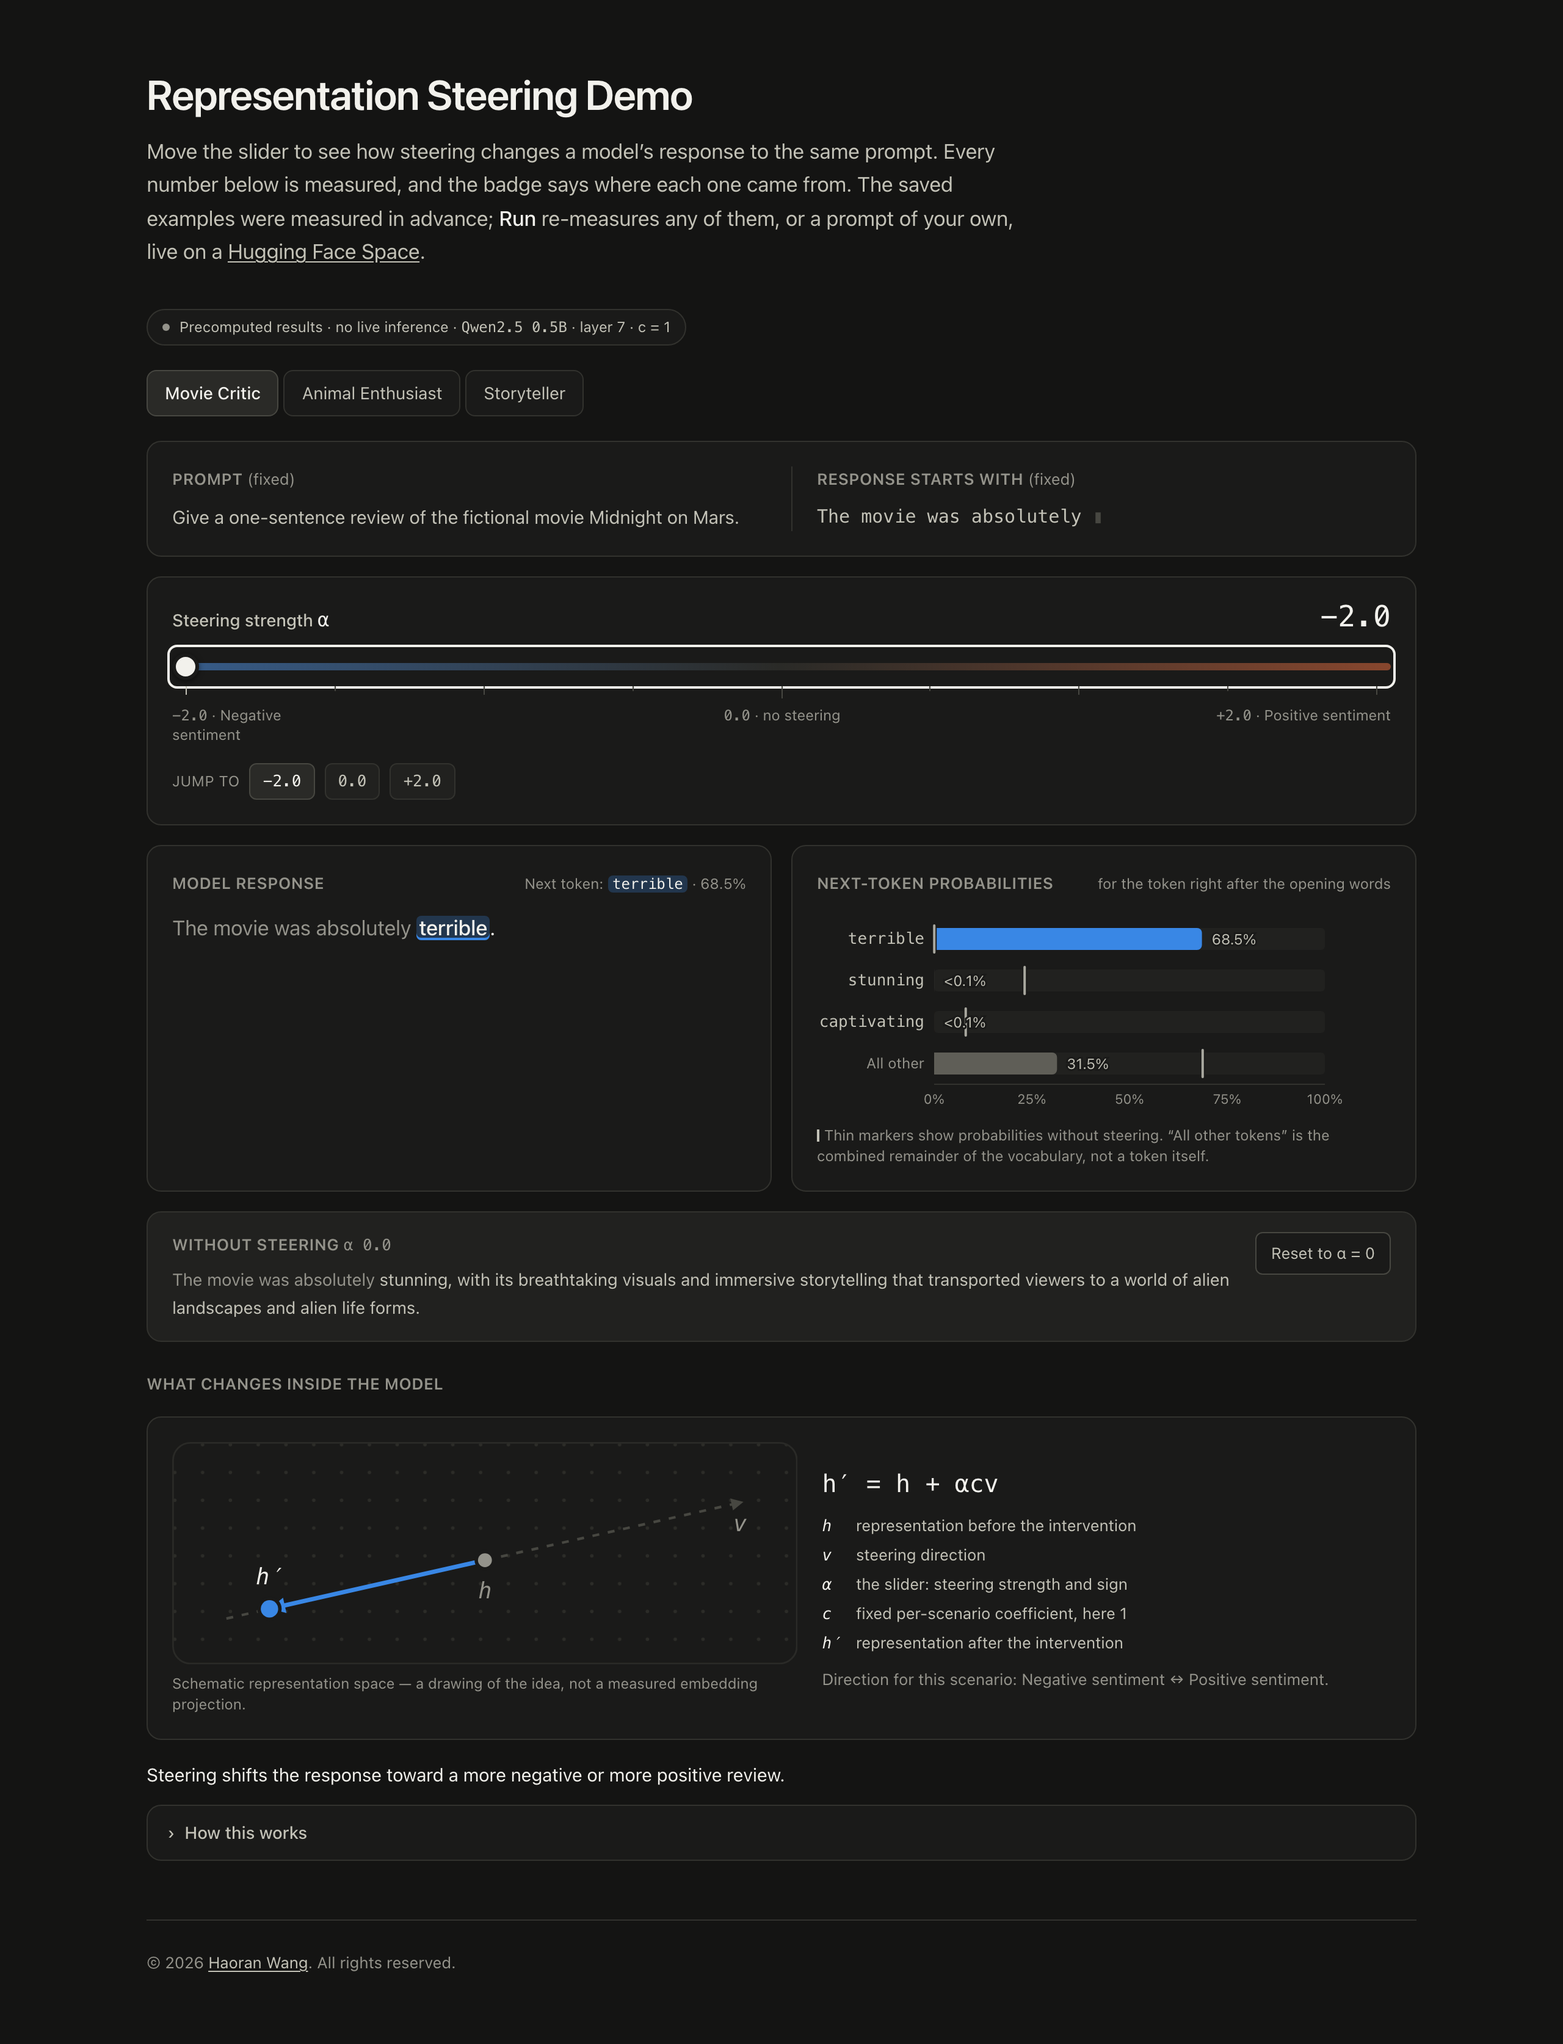
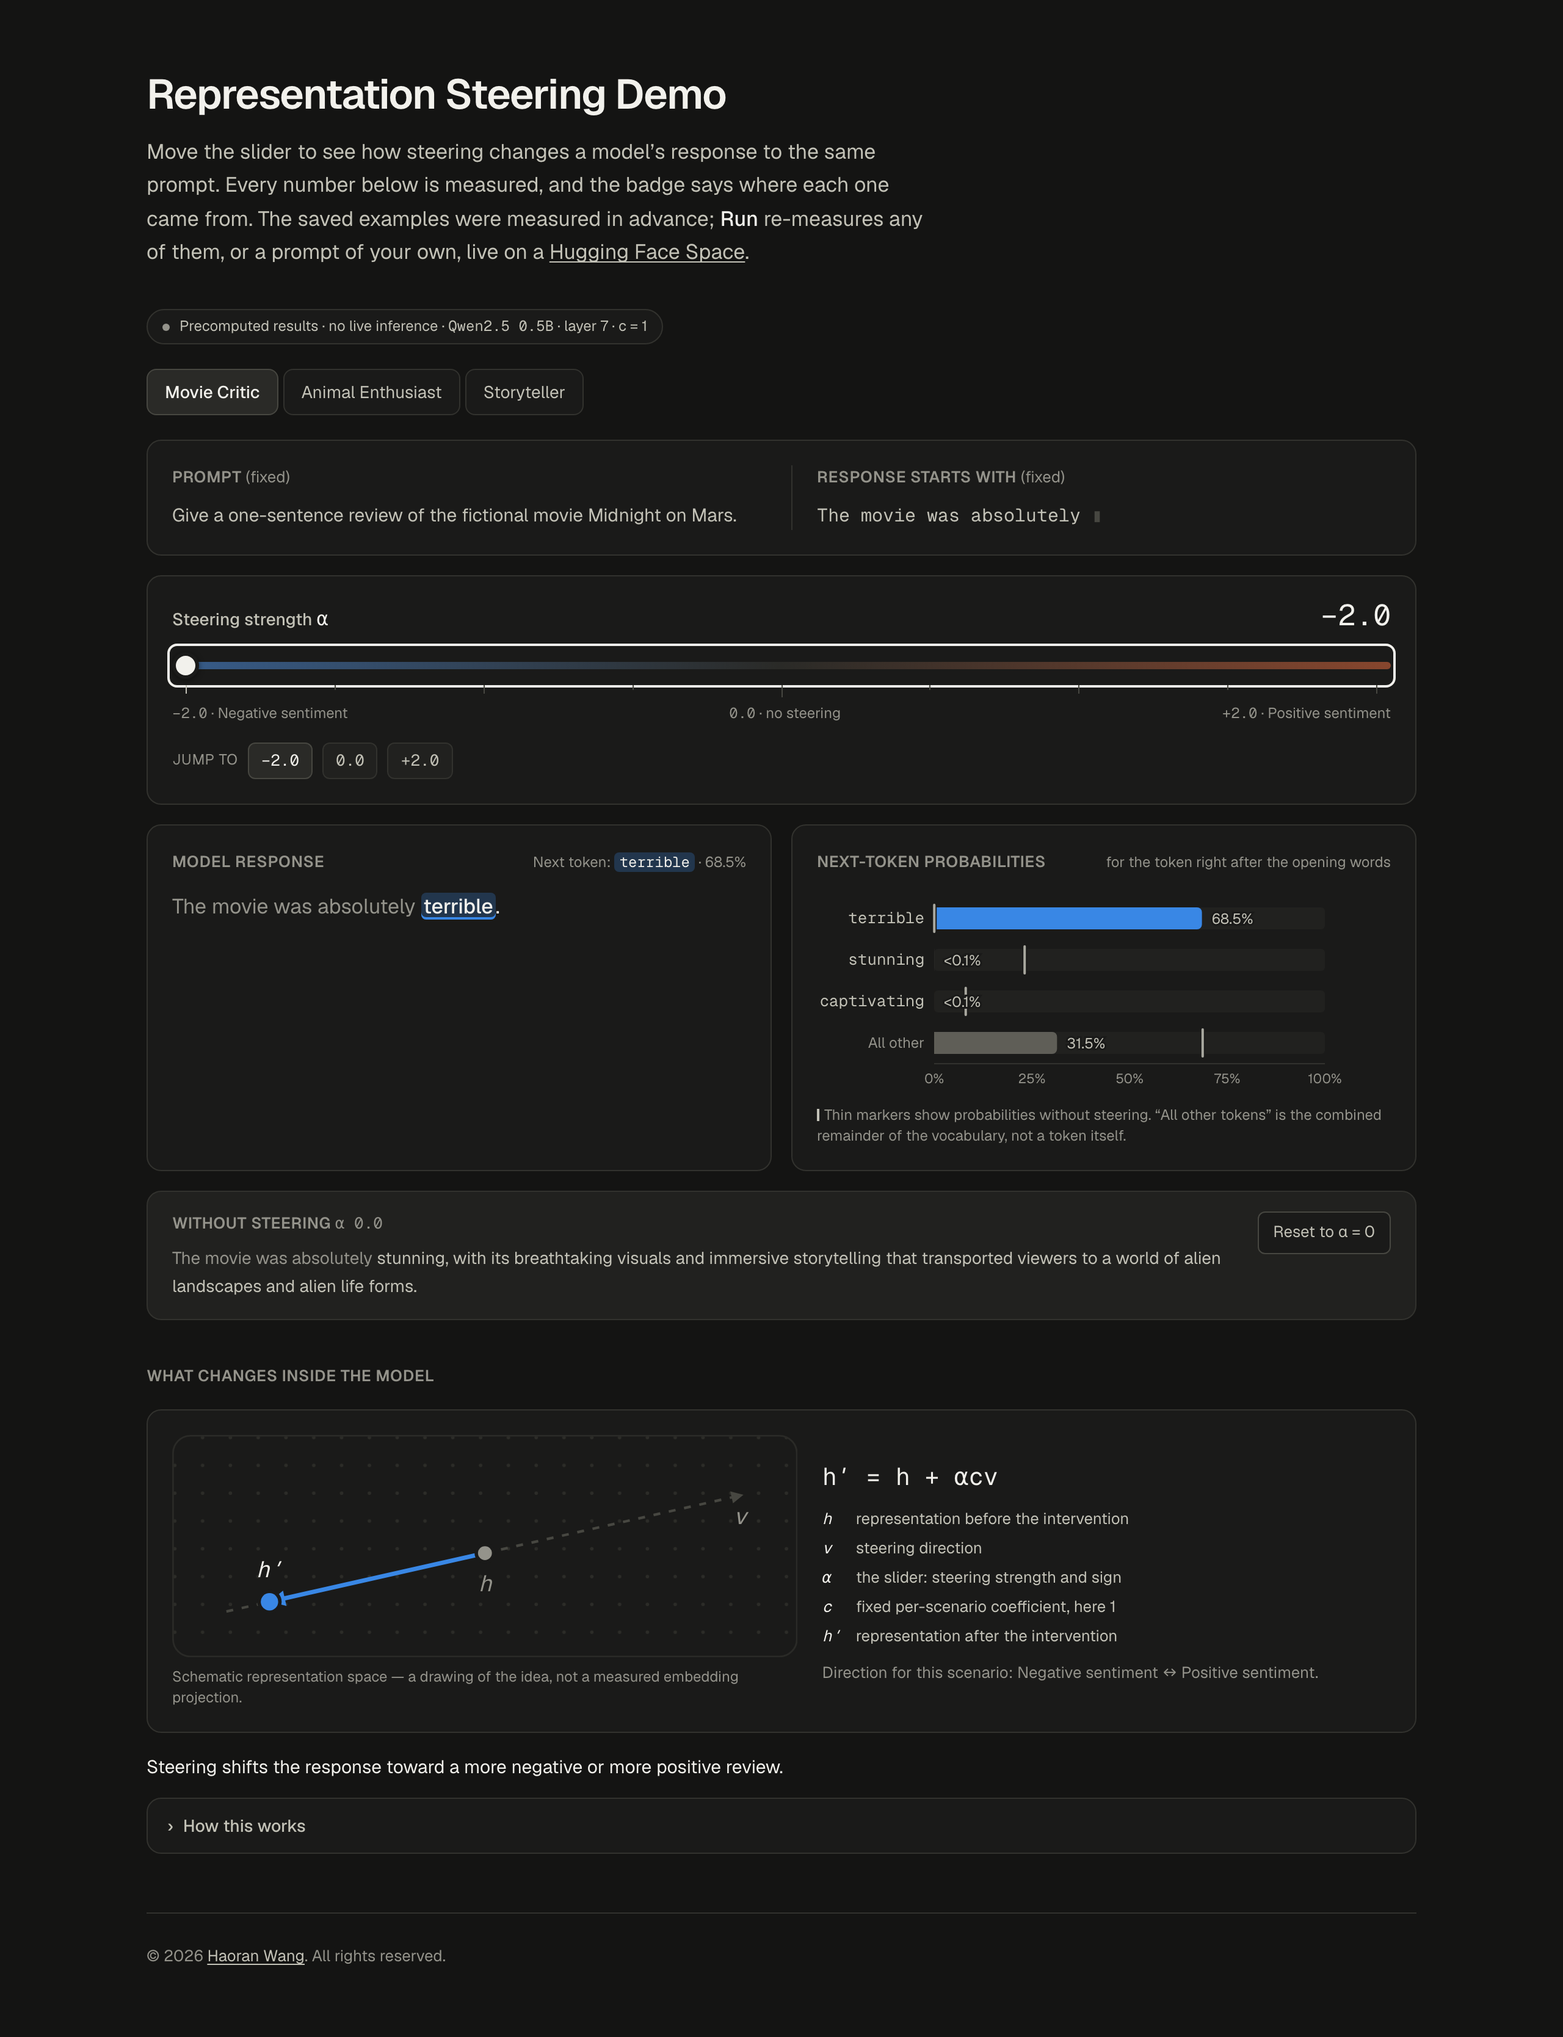
Set the page in Geist, acknowledge every press, and theme the browser's own surfaces
A polish pass on the incumbent design, guided by three craft references
(emil-design-eng, impeccable, redesign-existing-projects). Refinement only: the
layout, palette, copy and measured content are untouched.

Typography. The interface was set in the platform's default sans, which reads as
assembled rather than built. It is now Geist Sans, with Geist Mono for the
tokens, alpha values and percentages the page is about - self-hosted through
@fontsource-variable, so the page still makes no external request and works
offline; a visitor fetches two latin subsets, 52 KB. Headings balance their
line breaks, paragraphs avoid orphans, the lede's measure is ~72 characters
instead of a wide band, and every changing number uses tabular numerals so the
slider never makes digits jitter.

Feedback. No control acknowledged a press. Tabs, the jump-to presets, Run and
Reset now scale to 0.97 on :active over 160ms on a strong ease-out, transform
only; the slider thumb grows under the pointer and while dragged. Pills that
appear in response to something - a stale draft, a failed run, the way back to
the saved example - ease in from 2px below via @starting-style rather than
popping in. All of it collapses under prefers-reduced-motion through the
existing global rule. The bar tween was already the page's one authored moment
and is unchanged.

Browser surfaces. Selection colour, caret, scrollbar and accent now come from
[…]

diff --git a/src/styles/global.css b/src/styles/global.css
@@ -1,4 +1,11 @@
 @import "tailwindcss";
+/*
+ * Self-hosted, so the page keeps making no external requests. Geist (Vercel, SIL OFL 1.1):
+ * a sans with a clear voice for the interface, and a mono that shares its metrics for the
+ * tokens, alpha values and percentages the page is really about.
+ */
+@import "@fontsource-variable/geist";
+@import "@fontsource-variable/geist-mono";
 
 /*
  * Design tokens.
@@ -11,10 +18,13 @@
  * a visible text label plus a row in the accessible table.
  */
 @theme {
-  --font-sans: ui-sans-serif, system-ui, -apple-system, "Segoe UI", Roboto, "Helvetica Neue",
-    Arial, "Noto Sans", sans-serif;
-  --font-mono: ui-monospace, SFMono-Regular, "SF Mono", Menlo, Consolas, "Liberation Mono",
-    monospace;
+  --font-sans: "Geist Variable", ui-sans-serif, system-ui, -apple-system, "Segoe UI", Roboto,
+    "Helvetica Neue", Arial, "Noto Sans", sans-serif;
+  --font-mono: "Geist Mono Variable", ui-monospace, SFMono-Regular, "SF Mono", Menlo, Consolas,
+    "Liberation Mono", monospace;
+
+  /* A stronger ease-out than the CSS keyword: fast start, long settle. Used for every UI motion. */
+  --ease-out-strong: cubic-bezier(0.23, 1, 0.32, 1);
 
   --color-surface-0: #141413;
   --color-surface-1: #1a1a19;
@@ -55,6 +65,33 @@
     outline: 2px solid var(--color-ink);
     outline-offset: 2px;
     border-radius: 4px;
+  }
+
+  /*
+   * The surfaces the browser draws for us still carry the design: selection, caret, scrollbars
+   * and the numerals in changing values all ship with defaults that belong to no palette.
+   */
+  :root {
+    caret-color: var(--color-ink);
+    accent-color: var(--color-ink);
+    scrollbar-color: var(--color-line-strong) transparent;
+  }
+  ::selection {
+    background: color-mix(in oklab, var(--color-ink) 24%, transparent);
+  }
+  h1,
+  h2,
+  h3 {
+    text-wrap: balance;
+  }
+  p {
+    text-wrap: pretty;
+  }
+  /* Values that change under the slider must not jitter as their digits change width. */
+  .font-mono,
+  code,
+  output {
+    font-variant-numeric: tabular-nums;
   }
 }
 
@@ -104,7 +141,10 @@
     border-radius: 999px;
     background: var(--color-ink);
     border: 3px solid var(--color-surface-1);
-    box-shadow: 0 1px 4px rgb(0 0 0 / 0.5);
+    box-shadow: 0 1px 4px rgb(10 10 8 / 0.55);
+    transition:
+      transform 160ms var(--ease-out-strong),
+      box-shadow 160ms var(--ease-out-strong);
   }
 
   .alpha-range::-moz-range-thumb {
@@ -113,7 +153,59 @@
     border-radius: 999px;
     background: var(--color-ink);
     border: 3px solid var(--color-surface-1);
-    box-shadow: 0 1px 4px rgb(0 0 0 / 0.5);
+    box-shadow: 0 1px 4px rgb(10 10 8 / 0.55);
+    transition:
+      transform 160ms var(--ease-out-strong),
+      box-shadow 160ms var(--ease-out-strong);
+  }
+
+  /* The handle grows under the pointer and while dragged, so the grab is acknowledged. */
+  @media (hover: hover) and (pointer: fine) {
+    .alpha-range:hover::-webkit-slider-thumb {
+      transform: scale(1.08);
+    }
+    .alpha-range:hover::-moz-range-thumb {
+      transform: scale(1.08);
+    }
+  }
+  .alpha-range:active::-webkit-slider-thumb {
+    transform: scale(1.14);
+    box-shadow: 0 2px 8px rgb(10 10 8 / 0.6);
+  }
+  .alpha-range:active::-moz-range-thumb {
+    transform: scale(1.14);
+    box-shadow: 0 2px 8px rgb(10 10 8 / 0.6);
+  }
+
+  /*
+   * Press feedback for anything clickable: a 3% scale on :active, transform only, so the
+   * interface visibly hears the press without repainting text. Colour changes keep the plain
+   * `ease`, which is right for a hover.
+   */
+  .pressable {
+    transition:
+      transform 160ms var(--ease-out-strong),
+      background-color 150ms ease,
+      border-color 150ms ease,
+      color 150ms ease;
+  }
+  .pressable:active:not(:disabled) {
+    transform: scale(0.97);
+  }
+
+  /*
+   * Pills that appear in response to something (a stale draft, a failed run) ease in from an
+   * already-visible 2px below rather than popping into existence. Reduced motion collapses the
+   * duration through the global rule.
+   */
+  .pill-enter {
+    transition:
+      opacity 180ms var(--ease-out-strong),
+      transform 180ms var(--ease-out-strong);
+    @starting-style {
+      opacity: 0;
+      transform: translateY(2px);
+    }
   }
 
   /* Horizontal tab strip may scroll on narrow screens without the page scrolling. */

diff --git a/src/components/TokenChart.tsx b/src/components/TokenChart.tsx
@@ -22,7 +22,10 @@ export interface ChartRow {
 const ROW_HEIGHT = 34;
 const BAR_SIZE = 18;
 const Y_AXIS_WIDTH = 96;
-const Y_AXIS_WIDTH_COMPACT = 74;
+// Wide enough for an 11-character token at the compact 12px size (Geist Mono advances 0.6em, so
+// 11 x 7.2px = 79px) with room to spare. At 74px the longest shipped token, "captivating", ran
+// past the SVG's left edge and rendered as ">tivating" on a phone.
+const Y_AXIS_WIDTH_COMPACT = 88;
 const MARGIN = { top: 6, right: 54, bottom: 4, left: 0 };
 const MARGIN_COMPACT = { top: 6, right: 44, bottom: 4, left: 0 };
 /** Below this container width the label gutter is trimmed to keep the plot area usable. */
@@ -77,7 +80,20 @@ function RowShape({ x = 0, y = 0, width = 0, height = 0, payload, background, pl
 /** Longest token that fits the label gutter at 13px monospace before it would be clipped. */
 const MAX_LABEL_CHARS = 11;
 
-function TokenTick({ x = 0, y = 0, payload, rows }: { x?: number; y?: number; payload?: { value?: string }; rows: ChartRow[] }) {
+function TokenTick({
+  x = 0,
+  y = 0,
+  payload,
+  rows,
+  compact = false,
+}: {
+  x?: number;
+  y?: number;
+  payload?: { value?: string };
+  rows: ChartRow[];
+  /** Narrow container: one size smaller so the label gutter can stay narrow too. */
+  compact?: boolean;
+}) {
   const row = rows.find((r) => r.label === payload?.value);
   const full = payload?.value ?? '';
   // A visitor's own prompt can produce a long token. Truncating keeps the axis aligned; the exact
@@ -89,7 +105,7 @@ function TokenTick({ x = 0, y = 0, payload, rows }: { x?: number; y?: number; pa
       y={y}
       dy={4}
       textAnchor="end"
-      fontSize={row?.muted ? 12 : 13}
+      fontSize={row?.muted || compact ? 12 : 13}
       fontFamily={row?.muted ? 'var(--font-sans)' : 'var(--font-mono)'}
       fill={row?.muted ? INK_3 : INK_2}
     >
@@ -147,7 +163,7 @@ export function TokenChart({ rows, summary, alphaLabel }: TokenChartProps) {
               width={yAxisWidth}
               tickLine={false}
               axisLine={false}
-              tick={<TokenTick rows={rows} />}
+              tick={<TokenTick rows={rows} compact={compact} />}
               interval={0}
             />
             <Bar

diff --git a/src/components/SteeringShowcase.tsx b/src/components/SteeringShowcase.tsx
@@ -390,7 +390,7 @@ export function SteeringShowcase({ scenarios, provenance, spaceUrl }: SteeringSh
               type="button"
               onClick={() => setStateIndex(NEUTRAL_INDEX)}
               disabled={atNeutral}
-              className="shrink-0 self-start rounded-md border border-[var(--color-line-strong)] bg-[var(--color-surface-1)] px-3 py-1.5 text-[13px] text-[var(--color-ink-2)] transition-colors hover:text-[var(--color-ink)] disabled:cursor-default disabled:border-[var(--color-line)] disabled:text-[var(--color-ink-3)] disabled:opacity-60"
+              className="pressable shrink-0 self-start rounded-md border border-[var(--color-line-strong)] bg-[var(--color-surface-1)] px-3 py-1.5 text-[13px] text-[var(--color-ink-2)] hover:text-[var(--color-ink)] disabled:cursor-default disabled:border-[var(--color-line)] disabled:text-[var(--color-ink-3)] disabled:opacity-60"
             >
               {atNeutral ? 'At \u03b1 = 0' : 'Reset to \u03b1 = 0'}
             </button>
@@ -402,7 +402,8 @@ export function SteeringShowcase({ scenarios, provenance, spaceUrl }: SteeringSh
           slider moving the numbers, and an audit found the result cards starting ~975px down the
           page because the setup came first.
         */}
-        <h2 className="pt-2 text-[13px] font-semibold uppercase tracking-wide text-[var(--color-ink-3)]">
+        {/* More room above this heading than below it: the results end here, the explanation begins. */}
+        <h2 className="pt-5 text-[13px] font-semibold uppercase tracking-wide text-[var(--color-ink-3)]">
           What changes inside the model
         </h2>
         <section className="rounded-xl border border-[var(--color-line)] bg-[var(--color-surface-1)] p-4 sm:p-5">

diff --git a/src/components/LiveControls.tsx b/src/components/LiveControls.tsx
@@ -51,7 +51,7 @@ export function LiveControls({
         type="button"
         onClick={onRun}
         disabled={state === 'running'}
-        className="rounded-full border border-[var(--color-line-strong)] bg-[var(--color-surface-2)] px-3 py-1 text-[var(--color-ink)] transition-colors hover:bg-[var(--color-surface-3)] disabled:cursor-progress disabled:opacity-70"
+        className="pressable rounded-full border border-[var(--color-line-strong)] bg-[var(--color-surface-2)] px-3 py-1 text-[var(--color-ink)] hover:bg-[var(--color-surface-3)] disabled:cursor-progress disabled:opacity-70"
       >
         {state === 'running'
           ? 'Running on the GPU\u2026'
@@ -64,14 +64,14 @@ export function LiveControls({
         <button
           type="button"
           onClick={onRevert}
-          className="text-[var(--color-ink-3)] underline underline-offset-2 hover:text-[var(--color-ink)]"
+          className="pill-enter text-[var(--color-ink-3)] underline underline-offset-2 transition-colors hover:text-[var(--color-ink)]"
         >
           Back to the saved example
         </button>
       )}
 
       {state === 'error' && (
-        <span className="inline-flex max-w-full items-center rounded-full border border-[var(--color-line)] bg-[var(--color-surface-1)] px-3 py-1 text-[var(--color-ink-3)]">
+        <span className="pill-enter inline-flex max-w-full items-center rounded-full border border-[var(--color-line)] bg-[var(--color-surface-1)] px-3 py-1 text-[var(--color-ink-3)]">
           <span className="truncate">
             Live run did not finish{error ? `: ${error}` : ''}. The saved results are unchanged.
           </span>

diff --git a/src/components/AlphaSlider.tsx b/src/components/AlphaSlider.tsx
@@ -97,7 +97,7 @@ export function AlphaSlider({
               type="button"
               onClick={() => onChange(index)}
               aria-label={`Set alpha to ${value < 0 ? 'minus ' : value > 0 ? 'plus ' : ''}${Math.abs(value).toFixed(1)}, ${meaning}`}
-              className={`rounded-md border px-2.5 py-1 font-mono text-[13px] tabular-nums transition-colors ${
+              className={`pressable rounded-md border px-2.5 py-1 font-mono text-[13px] tabular-nums ${
                 index === stateIndex
                   ? 'border-[var(--color-line-strong)] bg-[var(--color-surface-3)] text-[var(--color-ink)]'
                   : 'border-[var(--color-line)] bg-[var(--color-surface-2)] text-[var(--color-ink-2)] hover:border-[var(--color-line-strong)] hover:text-[var(--color-ink)]'

diff --git a/src/components/ScenarioTabs.tsx b/src/components/ScenarioTabs.tsx
@@ -67,7 +67,7 @@ export function ScenarioTabs({ scenarios, activeId, onSelect, panelId }: Scenari
               aria-controls={panelId}
               tabIndex={selected ? 0 : -1}
               onClick={() => onSelect(scenario.id)}
-              className={`shrink-0 whitespace-nowrap rounded-lg border px-3.5 py-2 text-sm transition-colors ${
+              className={`pressable shrink-0 whitespace-nowrap rounded-lg border px-3.5 py-2 text-sm ${
                 selected
                   ? 'border-[var(--color-line-strong)] bg-[var(--color-surface-3)] font-medium text-[var(--color-ink)]'
                   : 'border-[var(--color-line)] bg-[var(--color-surface-1)] text-[var(--color-ink-2)] hover:border-[var(--color-line-strong)] hover:text-[var(--color-ink)]'

diff --git a/src/components/ResultBadge.tsx b/src/components/ResultBadge.tsx
@@ -62,7 +62,7 @@ export function ResultBadge({ identity, stale, state }: ResultBadgeProps) {
       </span>
 
       {stale && state !== 'running' && (
-        <span className="inline-flex items-center gap-2 rounded-full border border-[var(--color-token-pos)] bg-[var(--color-surface-2)] px-3 py-1 text-[var(--color-ink)]">
+        <span className="pill-enter inline-flex items-center gap-2 rounded-full border border-[var(--color-token-pos)] bg-[var(--color-surface-2)] px-3 py-1 text-[var(--color-ink)]">
           {/*
             What is on screen depends on where it came from. Hardcoding "the saved example" put a
             flat contradiction in one row - "Computed on Hugging Face" beside "Showing the saved

diff --git a/README.md b/README.md
@@ -287,6 +287,9 @@ Notes worth knowing before relying on it:
   fixed per-scenario coefficient shown in the badge (1.0, 2.0 and 1.0 for the three scenarios),
   and `h'` the modified representation generation continues from. Dropping `c` would misstate
   the intervention: at `c = 2`, `α = 1` adds twice the vector, not once.
+- **The typefaces are self-hosted.** Geist Sans for the interface and Geist Mono for tokens,
+  alpha values and percentages (Vercel, SIL Open Font License 1.1, via `@fontsource-variable`).
+  Bundled with the page, so it still makes no external requests and works offline.
 - **The schematic is a drawing, not a projection.** It is labelled "Schematic representation
   space" and the caption says it is not a measured embedding projection. At `α = 0` the two points
   coincide and the arrow disappears; a negative `α` reverses it.
